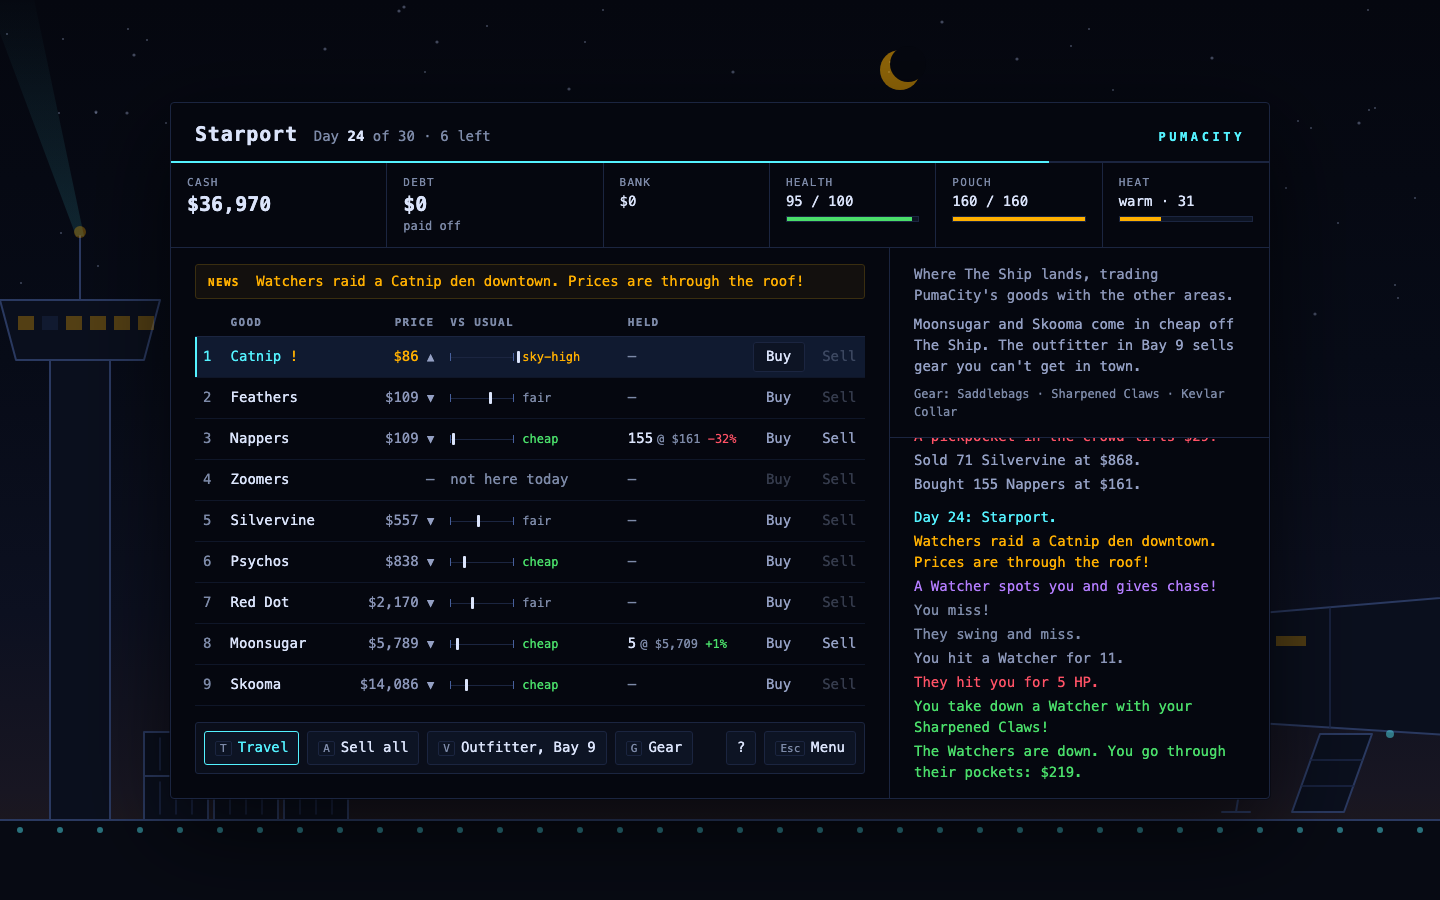
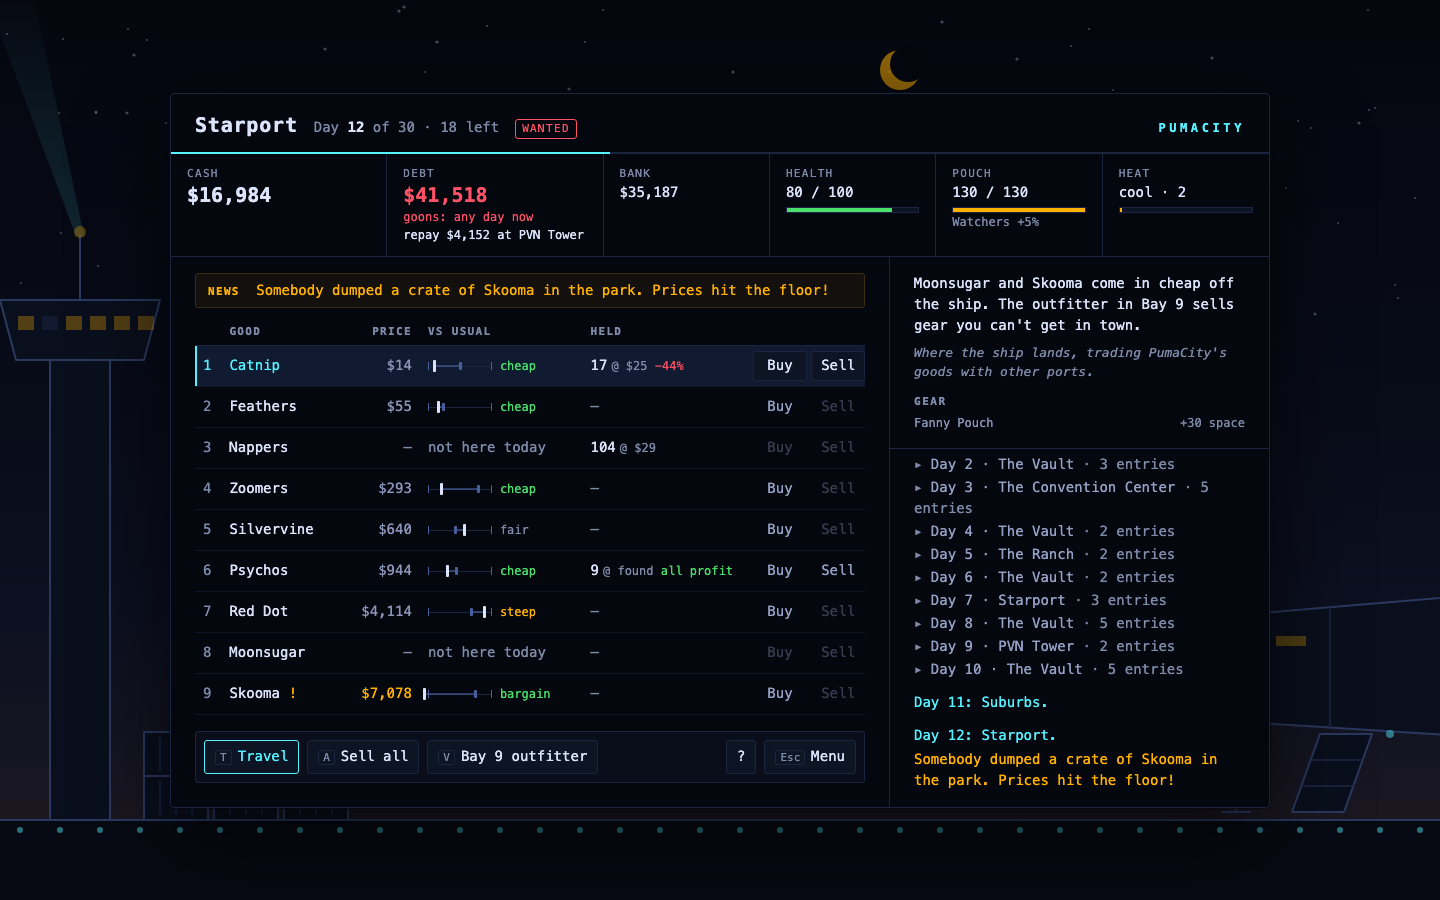
How to play: a Rules tab; a fresh README screenshot
Step 4 of custom rules, and the last.

- How to play gains a Rules tab (between Gear and Keys; the arrow keys walk
  through it). It opens on the rules in force: in a run, that run's
  difficulty and what it changes; on the title screen, the one you've
  chosen. Each difficulty's numbers come from its own rules, so the tab
  can't drift from the game. The Basics tab, opened from the title, now
  quotes the chosen difficulty's debt and interest too.
- The README screenshot is a Wanted run on day 12 at the Starport: the
  difficulty tag, the goons warning with the payment that stops them, a
  headline crash, and the last-seen ticks on the price bands. Captured with
  headless Chrome from a seeded state rebuilt in node.

diff --git a/index.html b/index.html
@@ -2586,9 +2586,16 @@ function menuHTML() {
   </div>`;
 }
 
+const HELP_TABS = [['basics', 'Basics'], ['places', 'Places'], ['goods', 'Goods'], ['gear', 'Gear'], ['rules', 'Rules'], ['keys', 'Keys']];
+/* One difficulty in the Rules tab: its numbers come from its own rules. */
+function presetLine(id) {
+  const p = presetRules(id);
+  return `<dt>${PRESETS[id].name}</dt><dd>${esc(PRESETS[id].blurb)} ${fmt(p.startCash)} in cash against ${fmt(p.startDebt)} of debt at ${pctText(p.debtRate)} a day; her goons come after ${p.goonDays} days without a payment.</dd>`;
+}
 function helpHTML(tab) {
-  const r = S ? R(S) : RULES;  // help opens from the title screen too
-  const tabs = [['basics', 'Basics'], ['places', 'Places'], ['goods', 'Goods'], ['gear', 'Gear'], ['keys', 'Keys']];
+  // In a run, its own rules; on the title screen, the ones you've chosen.
+  const r = S ? R(S) : chosenRules();
+  const tabs = HELP_TABS;
   let body = '';
   if (tab === 'basics') body = `<dl class="help">
     <dt>The goal</dt><dd>Finish the run with as much money as you can. Your score is your cash plus your bank balance, minus whatever you still owe The Boss.</dd>
@@ -2604,6 +2611,14 @@ function helpHTML(tab) {
     const where = PLACES.filter(P => P.shop.includes(id)).map(P => P.name).join(', ');
     return `<tr><td><b>${GEAR[id].name}</b><br><span class="note">${GEAR[id].blurb}</span></td><td class="r">${fmt(GEAR[id].price)}</td><td class="note">${where}</td></tr>`;
   }).join('')}</table><p class="note">Pouches and weapons only trade up: a new one replaces the old. Strays sometimes sell them cheap.</p>`;
+  if (tab === 'rules') {
+    const id = S ? S.preset : prefs.preset;
+    const ch = rulesChanges(r);
+    body = `<p>${S ? 'This run is' : 'You have chosen'} <b>${presetName(id)}</b>${ch.length ? `: ${esc(ch.join(' · '))}.` : ', the rules as they come.'}</p>
+    <dl class="help">${PRESET_IDS.map(presetLine).join('')}
+    <dt>Custom</dt><dd>Set the rules yourself: your money, The Boss's patience, the Watchers, your luck and your cat. Start from any difficulty above and step any setting up or down; the title screen lists what yours change.</dd>
+    <dt>High scores</dt><dd>Each difficulty keeps its own top ten for each run length, since a score only means something next to scores played under the same rules. A Custom score shows the rules it was played under.</dd></dl>`;
+  }
   if (tab === 'keys') body = `<table>
     <tr><td><kbd>1</kbd>–<kbd>9</kbd></td><td>Select a good</td></tr>
     <tr><td><kbd>B</kbd> / <kbd>S</kbd></td><td>Buy or sell the selected good; <kbd>Enter</kbd> then trades the most you can, or type an amount first</td></tr>
@@ -2932,7 +2947,7 @@ const ENC_LOCK_MS = 400;
 function encLocked() { return S && S.enc && performance.now() < (ui.encUntil || 0); }
 
 function helpKey(k) {
-  const tabs = ['basics', 'places', 'goods', 'gear', 'keys'];
+  const tabs = HELP_TABS.map(t => t[0]);
   const i = tabs.indexOf(ui.modal.tab || 'basics');
   if (k === 'ArrowRight') { ui.modal = { kind: 'help', tab: tabs[(i + 1) % tabs.length] }; render(); }
   if (k === 'ArrowLeft') { ui.modal = { kind: 'help', tab: tabs[(i + tabs.length - 1) % tabs.length] }; render(); }

diff --git a/README.md b/README.md
@@ -19,7 +19,7 @@ original text and code.
 One `index.html`: no build step, no dependencies, no network at play time.
 Saves stay in your browser's `localStorage`.
 
-![Day 24 at the Starport: the terminal sits over the district's scenery, a headline has sent Catnip sky-high, the vs-usual column marks the cheap goods, and the Held column shows a load of Nappers bought at $161 now down 32%](screenshots/market.png)
+![Day 12 of a Wanted run at the Starport: the terminal sits over the ship on its pad; the Debt box warns the goons could come any day and names the $4,152 payment that calls them off; a headline has crashed Skooma to a bargain; each price sits on its usual band beside a faint tick for the last price seen; and the Held column shows Catnip bought at $25 now down 44%](screenshots/market.png)
 
 ### How a run goes
 
